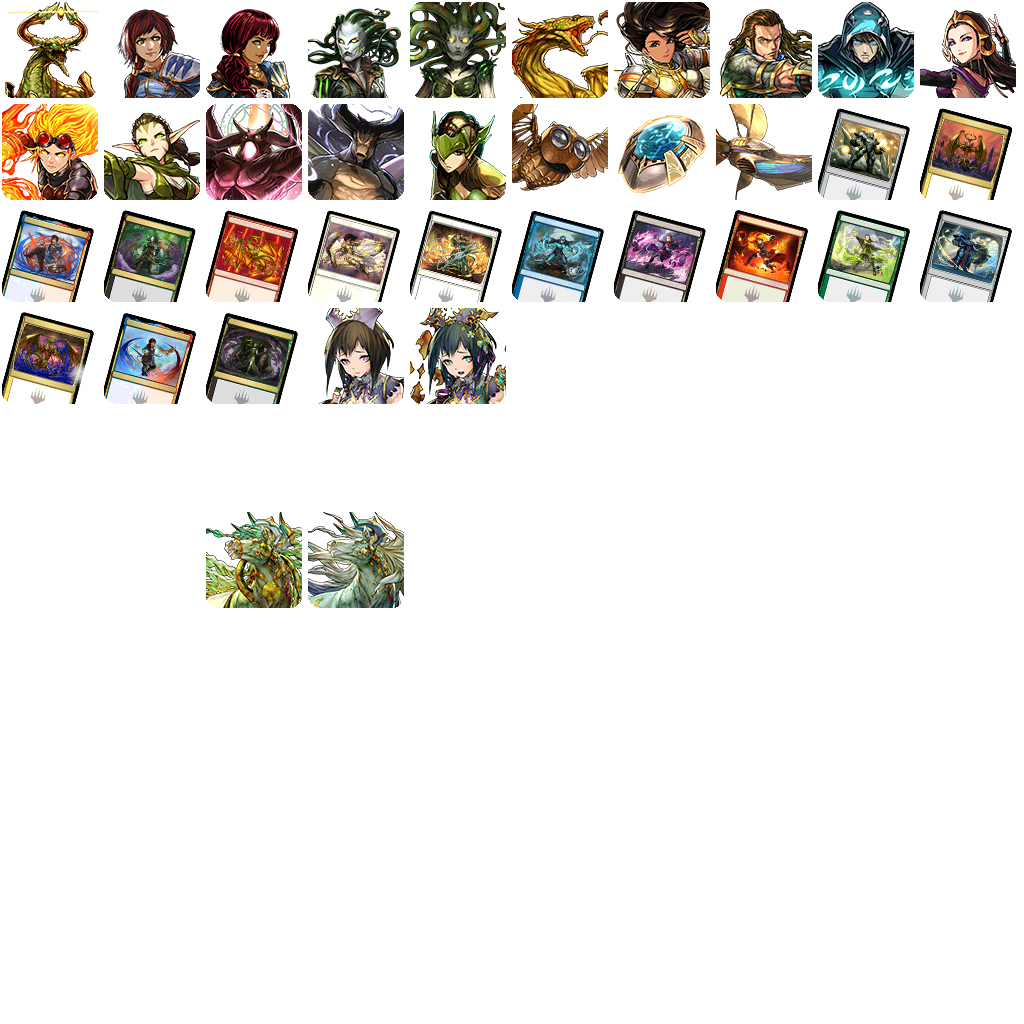
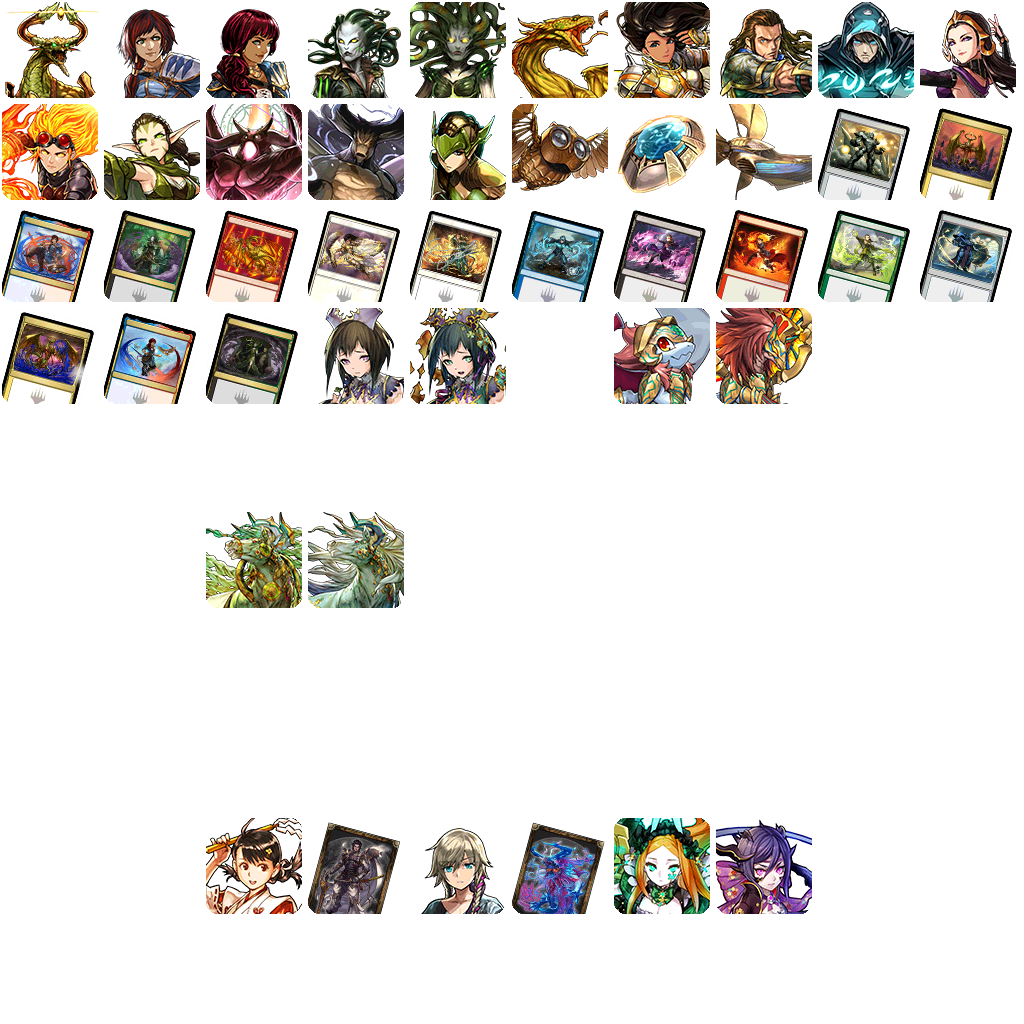
添加本家其他游戏合作

Changed region(s): [[0.1875, 0.7812, 0.8125, 0.9062], [0.5938, 0.2812, 0.8125, 0.4062]]

diff --git a/生成二技宠物JSON.js b/生成二技宠物JSON.js
@@ -145,8 +145,12 @@ var monsterList = [
         4444, //皮莫皮莫
         4618, //晴空號
     ]},
-    {group: "宠物交换所通过免费宠换的：第三方合作（限时）",ids: [
+    {group: "宠物交换所（免费宠兑换）：第三方合作（限时）",ids: [
         4388, //摩爾迦納
+    ]},
+    {group: "宠物交换所（免费宠兑换）：GungHo其他游戏合作（限时）",ids: [
+        4687, //SO135-阿蕾斯達
+        4684, //豪武官田村麻呂的卡
     ]},
     {group: "雷达捡徽章奖励（仅日本能捡到）：美化龙",ids: [
         1109, //炎天雙極星・伊弗里特
@@ -232,6 +236,10 @@ var monsterList = [
         3711, //猎人♀・斩龙X装备
         4173, //猎人♀・冰牙龙X装备
         4174, //猎人♀・风漂龙X装备
+    ]},
+    {group: "MP商店：GungHo其他游戏合作，期间限定商品",ids: [
+        4686, //大海獸俄刻阿諾斯的卡
+        4688, //黑白合
     ]},
 ];
 
